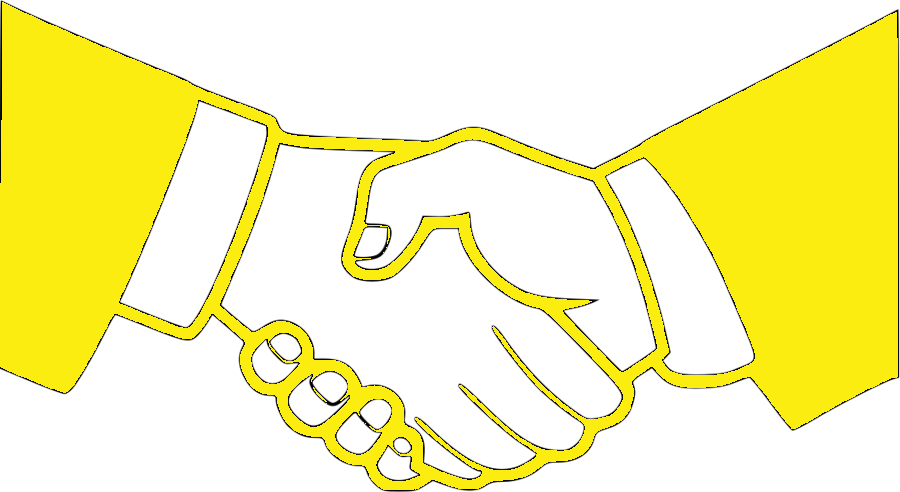
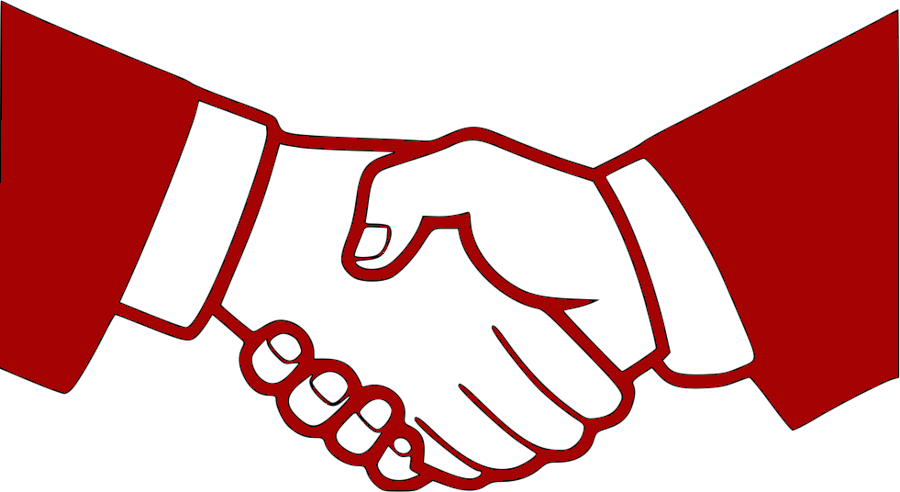
changed background color

diff --git a/public/assets/js/navbar.js b/public/assets/js/navbar.js
@@ -40,13 +40,13 @@ $(document).ready(function () {
     let navAbout = $("<a>");
     navAbout.attr({
         class: "nav-item nav-link nav-text",
-        href: "about.html",
+        href: "about.html"
     })
     navAbout.text("About")
     let navContact = $("<a>");
     navContact.attr({
         class: "nav-item nav-link nav-text",
-        href: "#",
+        href: "email.html",
     })
     navContact.text("Contact");
     navItems.append(navAbout,navContact);
@@ -54,6 +54,8 @@ $(document).ready(function () {
     bootNav.append(brandElement,dropdownBttn,navCollapse);
     $(".boot-nav").append(bootNav);
 })
+
+
 
 {/* <nav class="navbar navbar-expand-lg navbar-light bg-light">
   <a class="navbar-brand" href="#">Navbar</a>

diff --git a/public/assets/js/index.js b/public/assets/js/index.js
@@ -36,7 +36,7 @@ $(document).ready(function () {
     let mission2Img=$("<img>");
     mission2Img.attr({
         class: "col-lg-12 mission-img",
-        src: "../../images/mail-bw.png"
+        src: "../../images/hands-bw.png"
     });
     let mission2Text=$("<div>");
     mission2Text.attr({
@@ -58,7 +58,7 @@ $(document).ready(function () {
     let mission3Img=$("<img>");
     mission3Img.attr({
         class: "col-lg-12 mission-img",
-        src: "../../images/hands-bw.png"
+        src: "../../images/mail-bw.png"
     });
     let mission3Text=$("<div>");
     mission3Text.attr({

diff --git a/public/assets/css/index.css b/public/assets/css/index.css
@@ -8,7 +8,7 @@ body {
 }
 
 .mission-text{
-    font-size: 20px;
+    font-size: 20px;    
 }
 
 .mission-box{

diff --git a/public/assets/css/about.css b/public/assets/css/about.css
@@ -1,3 +1,3 @@
 body {
-    background-color:antiquewhite;
+    background-color:#a50303;
 }
